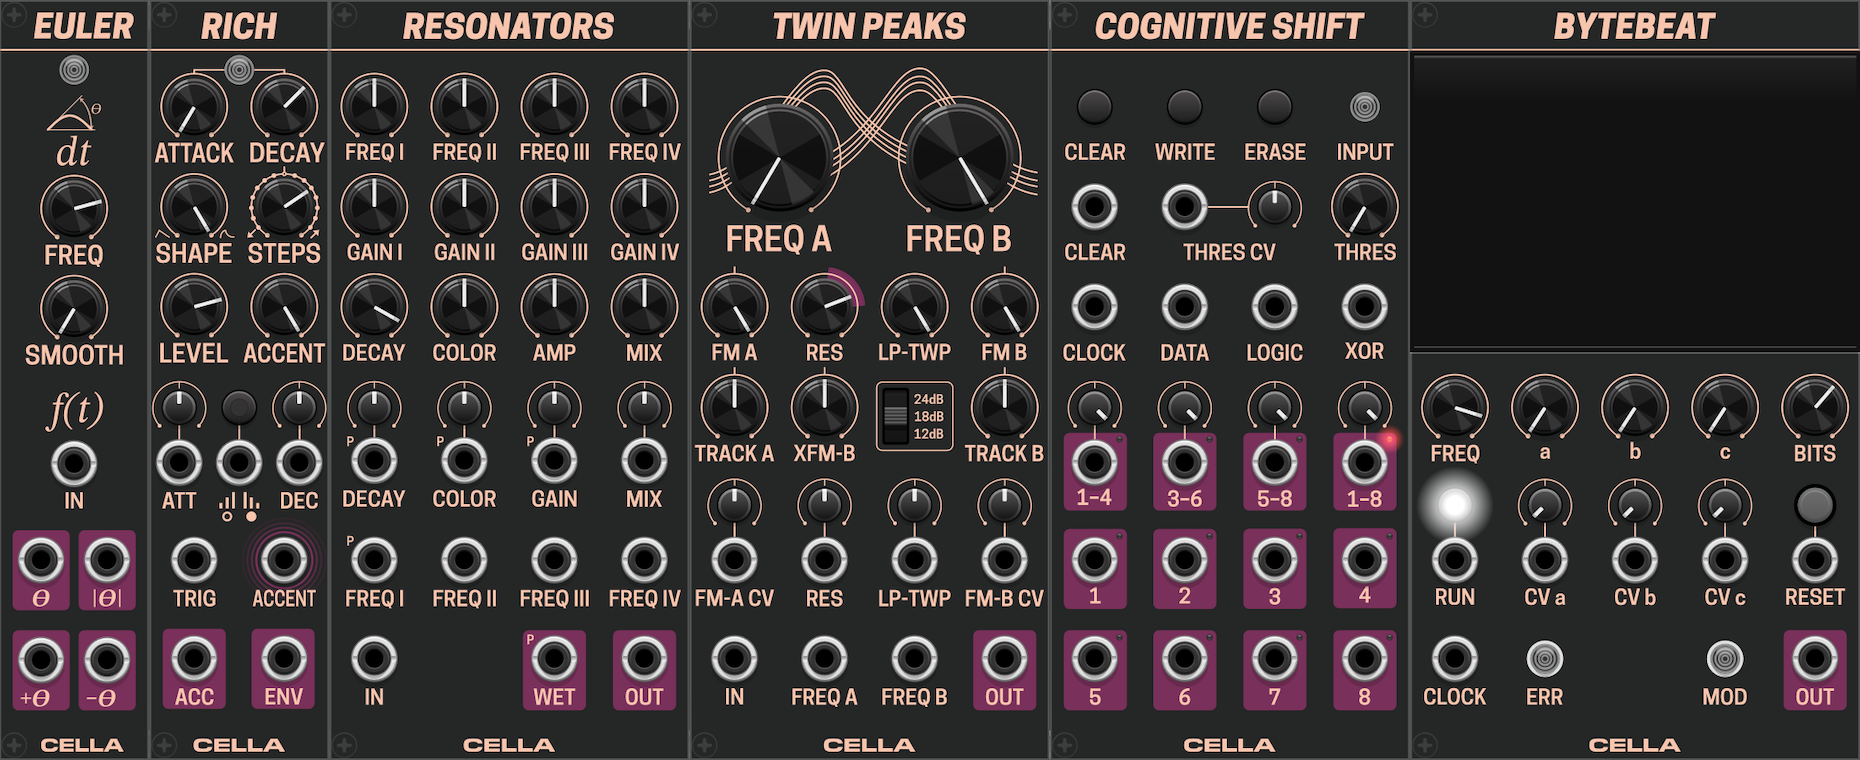
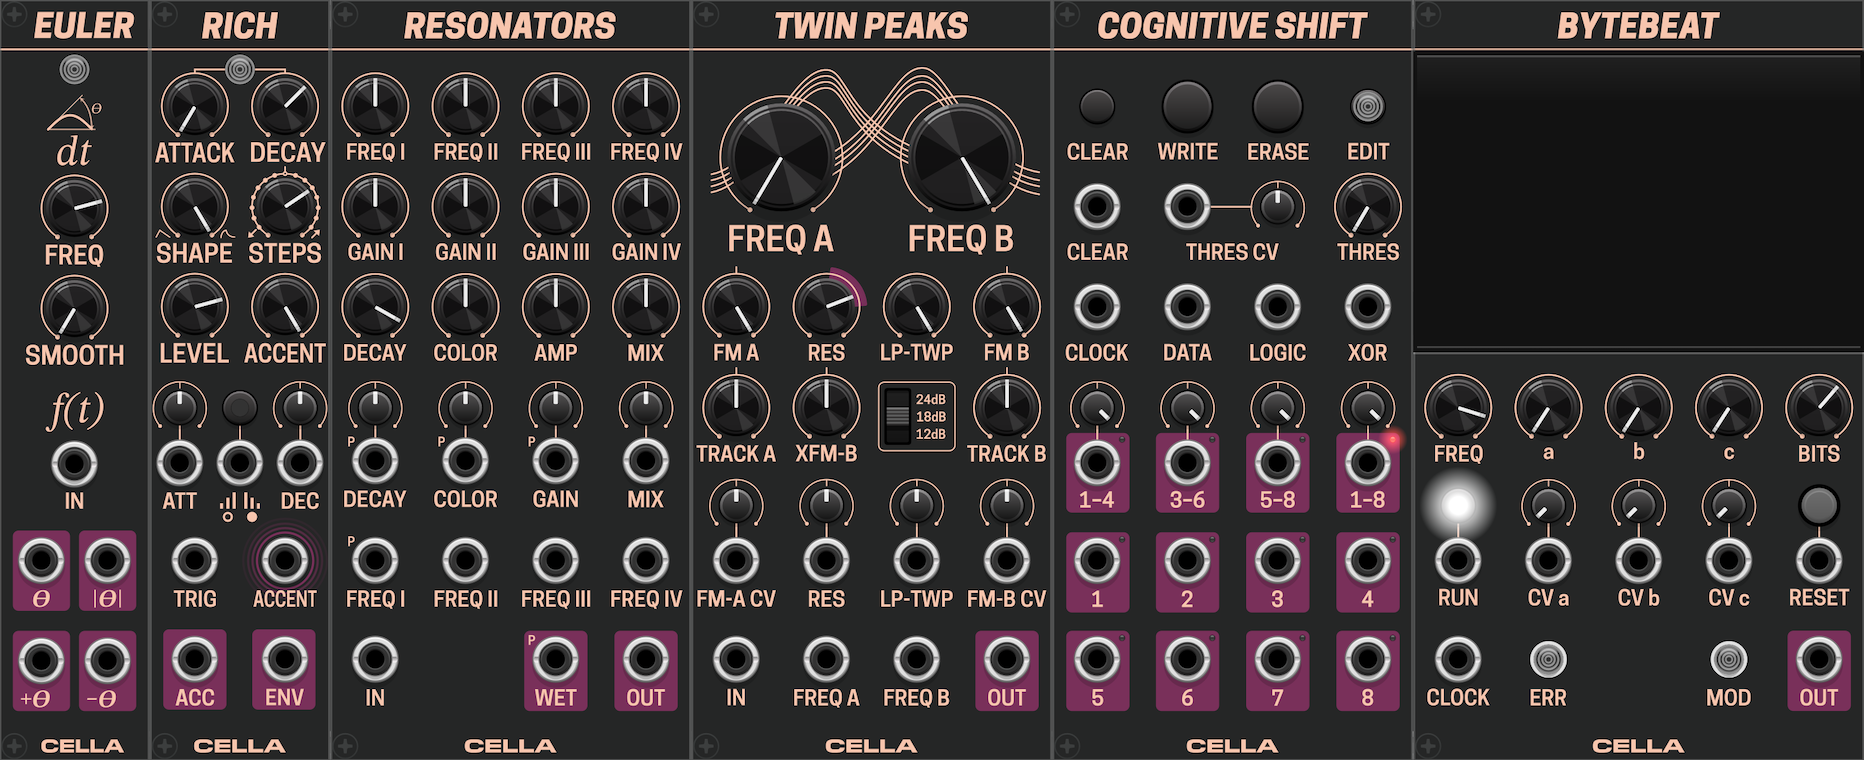
UI tweaks and documentation update

diff --git a/src/CognitiveShift.cpp b/src/CognitiveShift.cpp
@@ -579,7 +579,7 @@ struct CognitiveShiftWidget : ModuleWidget {
         // Step and DAC Lights
         float light_start_x = 34.84f;
         float light_spacing_x = 45.f;
-        float light_row1_y = 268.03f;
+        float light_row1_y = 269.43f;
         for (int i = 0; i < 4; ++i) {
             float lightX = light_start_x + i * light_spacing_x;
             auto* light = createLightCentered<TinyLight<GreenLight>>(Vec(lightX, light_row1_y), module, CognitiveShift::STEP_LIGHTS + i);

diff --git a/docs/Cella_Manual.md b/docs/Cella_Manual.md
@@ -8,7 +8,7 @@ Source code for this plugin can be found on GitHub: [https://github.com/victorka
 
 Code is licensed under GPL v3.0.
 
-All graphics are copyright 2024 Victor Kashirin and licensed under CC BY-SA 4.0.
+All graphics are copyright 2024-2025 Victor Kashirin and licensed under CC BY-SA 4.0.
 
 
 # **Rich**
@@ -166,6 +166,8 @@ Parameter **SMOOTH** applies smoothing over a set time period – up to 1 second
 
 [**Resonators Demo (YouTube)**](https://www.youtube.com/watch?v=gn_RQxh0R7A)
 
+[**Resonators demo by Omri Cohen (YouTube)**](https://www.youtube.com/watch?v=IwO37pXGd5A)
+
 **Resonators** is a module that features four pitched resonators based on the Karplus-Strong algorithm. It is designed to create rich, resonant sounds by simulating the behavior of plucked strings or other resonant bodies. Functionality is inspired by audio effect of the same name found in the popular DAW.
 
 #### **Key Features / Controls**
@@ -249,9 +251,9 @@ Taken from [here](http://viznut.fi/demos/unix/bytebeat_formulas.txt)
 
 <img src="images/CognitiveShift.png" alt="Cella - Cognitive Shift" style="height: 380px;">
 
-Cognitive Shift is an advanced 8-bit digital shift register module for VCV Rack. It goes beyond basic shift register functionality by incorporating flexible input logic (including XOR and selectable logic operations), manual data overrides, three overlapping unipolar 3-bit DAC outputs, a bipolar/unipolar 8-bit DAC output, and configurable gate output modes. It also features intelligent self-patching detection to facilitate complex feedback patterns.
+Cognitive Shift is an advanced 8-bit digital shift register module for VCV Rack. It goes beyond basic shift register functionality by incorporating flexible input logic (including XOR and selectable logic operations), manual data overrides, data edit mode, three overlapping unipolar 4-bit DAC outputs, a bipolar/unipolar 8-bit DAC output, and configurable gate output modes. It also features intelligent self-patching detection to facilitate complex feedback patterns.
 
-Main differentiator from other implementations is the ability to output triggers or gates per each step without merging consecutive gates together, and yet allow for self-patching. This was inspised by shift register behaviour of "Double Knot" instrument by Lorre Mill.
+Main differentiator from other implementations is the ability to output clocks, triggers or gates per each step without merging consecutive values together, and yet allow for self-patching. This was inspised by shift register behaviour of "Double Knot" instrument by Lorre Mill.
 
 ## Core Concept: The Shift Register
 
@@ -260,7 +262,7 @@ At its heart, Cognitive Shift is an 8-bit memory bank.
 1.  **Clocking:** When a trigger or gate signal arrives at the **CLOCK** input (specifically, on its rising edge), the module performs a "shift" operation.
 2.  **Input:** Before shifting, the module determines the value (1 or 0, High or Low) of the *next bit* to be introduced into the register. This is based on the **DATA**, **XOR**, and **LOGIC** inputs, **THRESHOLD** parameter, as well as the **WRITE** and **ERASE** buttons.
 3.  **Shifting:** The determined input bit becomes the new state of Bit 1. The previous state of Bit 1 moves to Bit 2, Bit 2 moves to Bit 3, and so on, up to Bit 7 moving to Bit 8. The previous state of Bit 8 is discarded.
-4.  **Output:** The state of each of the 8 bits (0 or 1) is available at the individual **BIT 1-8** outputs and is used to generate the various DAC outputs.
+4.  **Output:** The state of each of the 8 bits (0 or 1) is available at the individual **BIT 1-8** outputs and is used to generate the various DAC-based CV outputs.
 
 ## Features
 
@@ -273,6 +275,7 @@ At its heart, Cognitive Shift is an 8-bit memory bank.
     *   **ERASE** button (manually force input bit to 0).
     *   **LOGIC** input (combines with the DATA/Buttons result using a selectable logic function).
     *   **XOR** input (XORs with the DATA/Buttons/LOGIC value).
+*   Manual input mode enabled by **EDIT** button.
 *   Manual **CLEAR** button and CV input to set all bits to 0 instantly.
 *   8 individual bit outputs (**BIT 1** to **BIT 8**) with selectable behavior (Clock, Gate, Trigger) via the context menu.
 *   Multiple Digital-to-Analog Converter (DAC) outputs:
@@ -317,7 +320,7 @@ The logic type determines how the **LOGIC** input combines with the DATA input b
 - **AND:** Outputs `1` only if both DATA and LOGIC bits are `1`; otherwise, outputs `0`.
 - **NOR:** Outputs `1` only if both DATA and LOGIC bits are `0`; otherwise, outputs `0`.
 
-Selecting different logic types allows the creation of diverse and complex patterns, especially when combined with manual inputs or self-patching techniques.
+Selecting different logic types allows the creation of diverse and complex patterns, especially when combined with manual inputs or self-(cross-)patching techniques.
 
 **Tip**: you can see currently selected logic type in the tooltip if you hover mouse over LOGIC port.
 
@@ -340,17 +343,18 @@ Cognitive Shift is designed to handle self-patching gracefully. This means you c
 **Why use self-patching?**
 Self-patching allows Cognitive Shift to generate complex, evolving, and often pseudo-random sequences based on its own internal state. For example:
 *   Patching **BIT 8** to **DATA** creates a simple feedback loop.
-*   Patching **BIT 5** to **XOR** and **BIT 8** to **DATA** creates patterns similar to a Linear Feedback Shift Register (LFSR), often used for pseudo-random sequence generation.
+*   Patching **BIT 5** to **XOR** and **BIT 8** to **DATA** creates patterns similar to a Linear Feedback Shift Register (LFSR), often used for pseudo-random sequence generation. Programing **LOGIC** to **NAND** and patching another bit into it gives NLFSR.
 *   Experimenting with different bit outputs patched into **DATA**, **XOR**, and **LOGIC** inputs, potentially combined with different **Logic Types**, can yield a vast range of complex rhythmic and melodic patterns.
+* Combining few **Cognitive Shift** modules allow to create long evolving yet deterministic sequences.
 
 **Important disclaimer**
-Due to complex logic of handling self-patching, stacked cables on DATA, XOR and LOGIC won't be handled properly. If you need to merge few sources of data, program LOGIC input to `AND` mode.
+Due to complex logic of handling self-patching, stacked cables on DATA, XOR and LOGIC won't be handled properly. If you need to merge few sources of data, program LOGIC input to `OR` mode.
 
 ## Patch Ideas
 
 *   **Basic Sequencer:** Use **BIT 1-8** outputs (in Gate mode) to trigger drum sounds or envelopes for an 8-step sequence. Manually enter patterns with **WRITE**/**ERASE**, or feed a gate pattern into **DATA**.
 *   **CV Sequencer:** Use the **DAC** outputs to generate stepped CV sequences for pitch or modulation.
 *   **Clock Divider/Multiplier:** Use **BIT** outputs in Clock mode with specific patterns loaded.
-*   **Rhythmic Complexity:** Patch outputs back into **DATA**, **XOR**, or **LOGIC** inputs. Use external random sources or LFOs into these inputs as well. Experiment with different Logic Types.
+*   **Rhythmic Complexity:** Patch outputs back into **DATA**, **XOR**, or **LOGIC** inputs. Use external random sources or LFOs into these inputs as well. Experiment with different Logic Types. Cross-patch few **Cognitive Shift** modules for longer and more complex sequences.
 *   **Complex Modulation:** Use the **DAC** outputs, potentially with slow clock rates, to generate evolving CV signals.
 *   **Generative Melodies:** Use pseudo-random patterns generated via self-patching into the **DAC** output, quantize the result, and use it for pitch sequencing.
